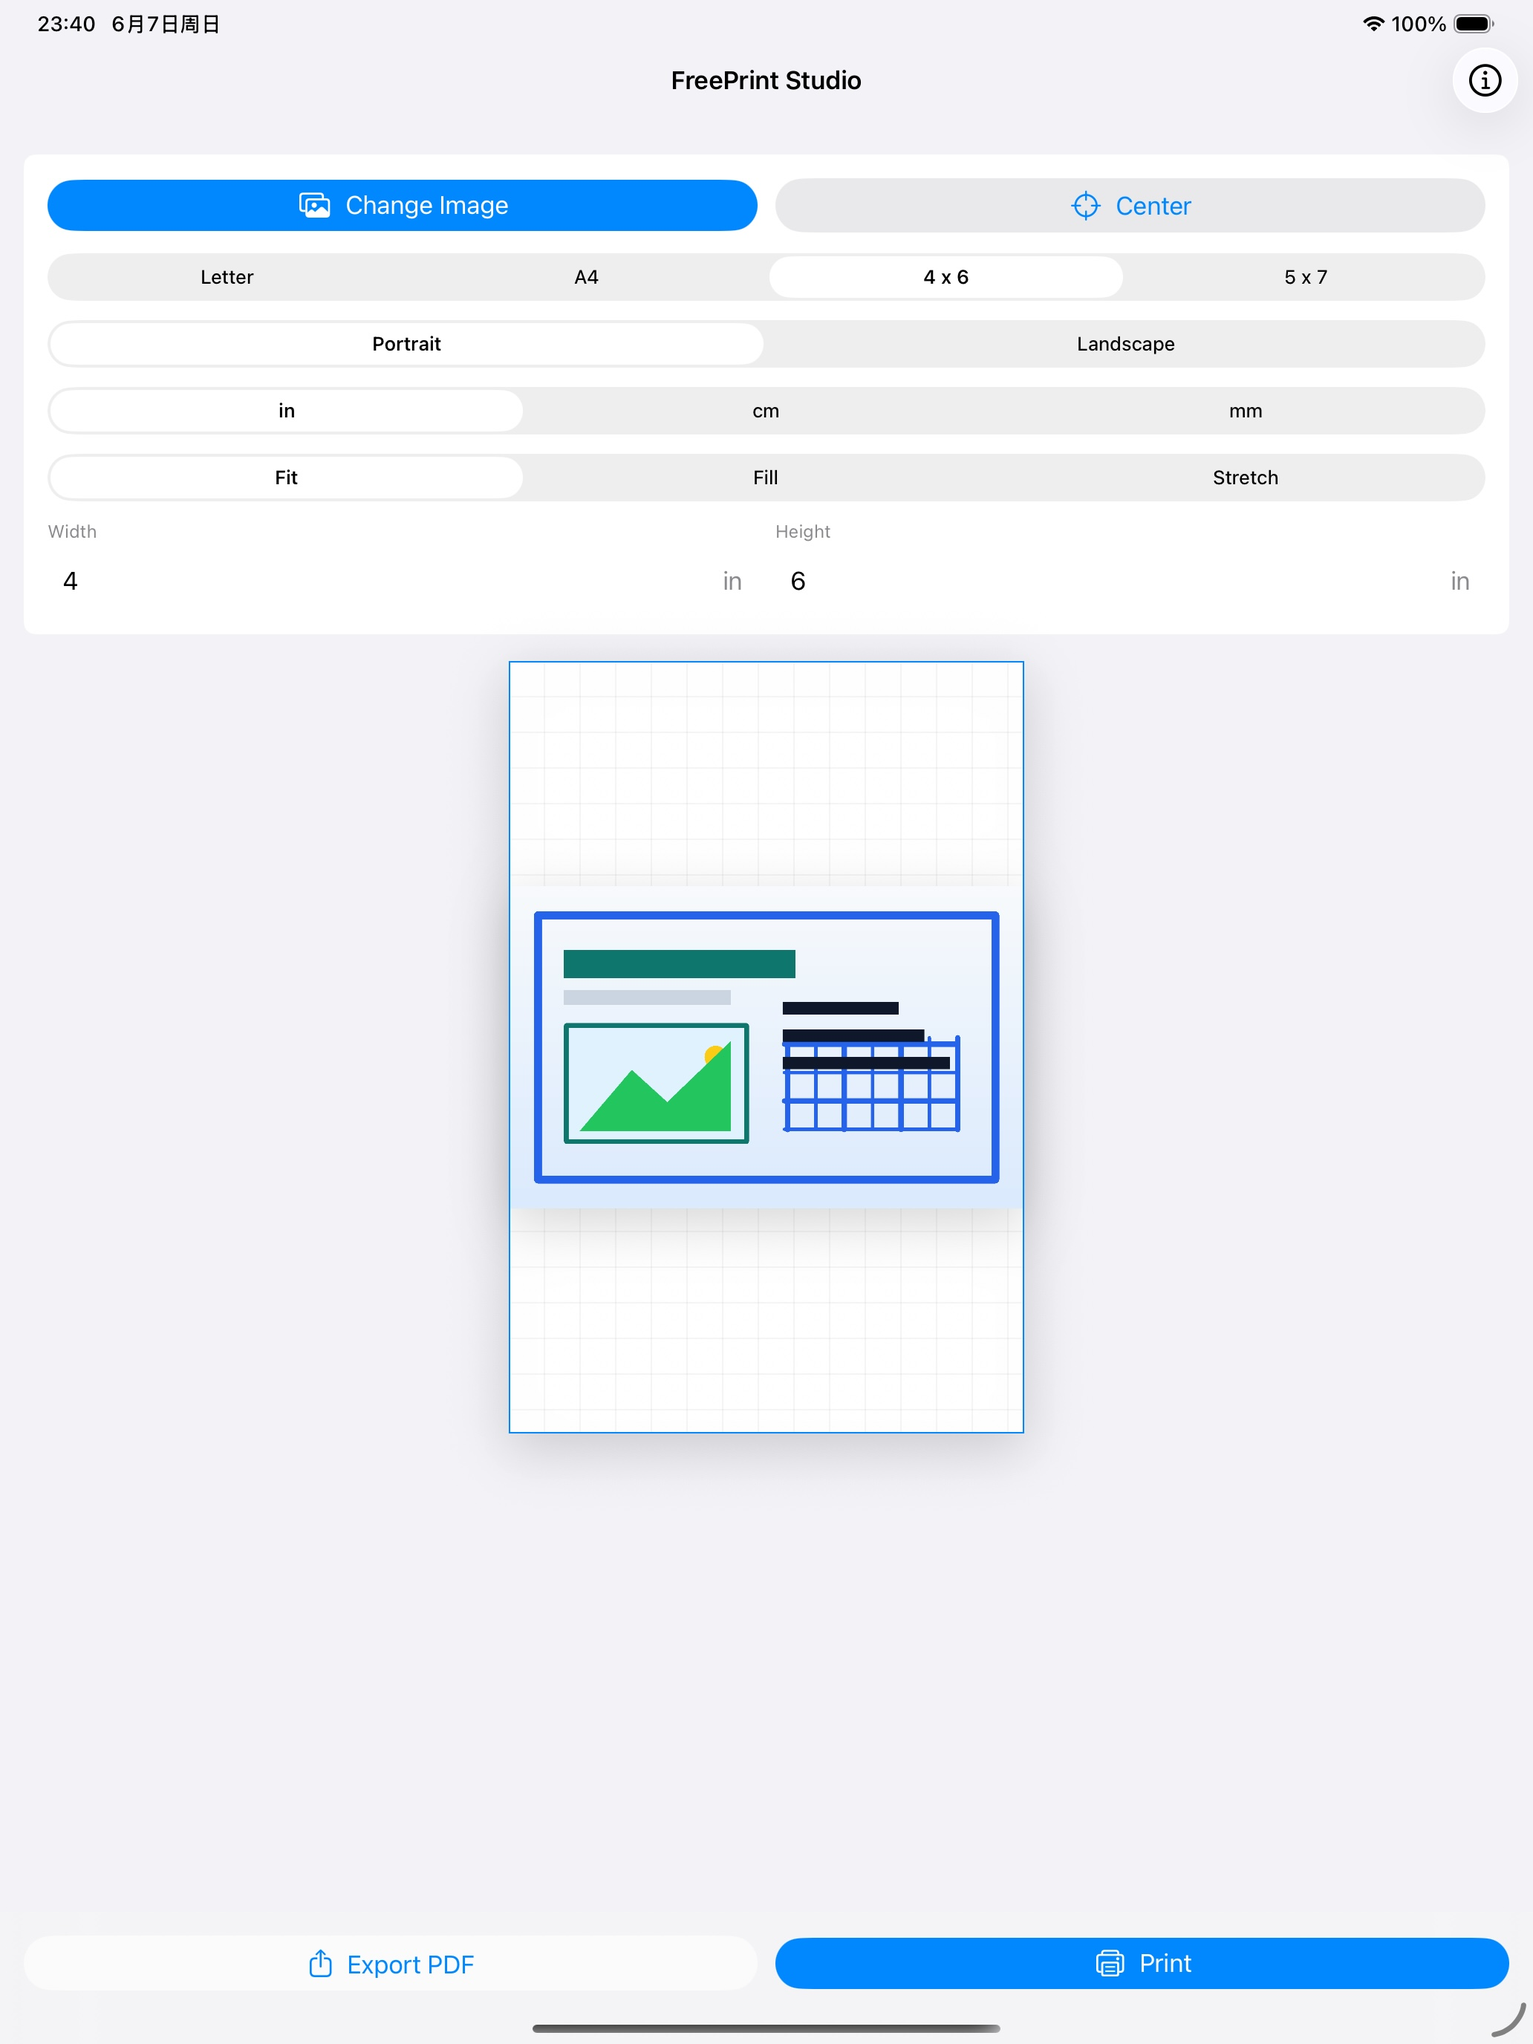
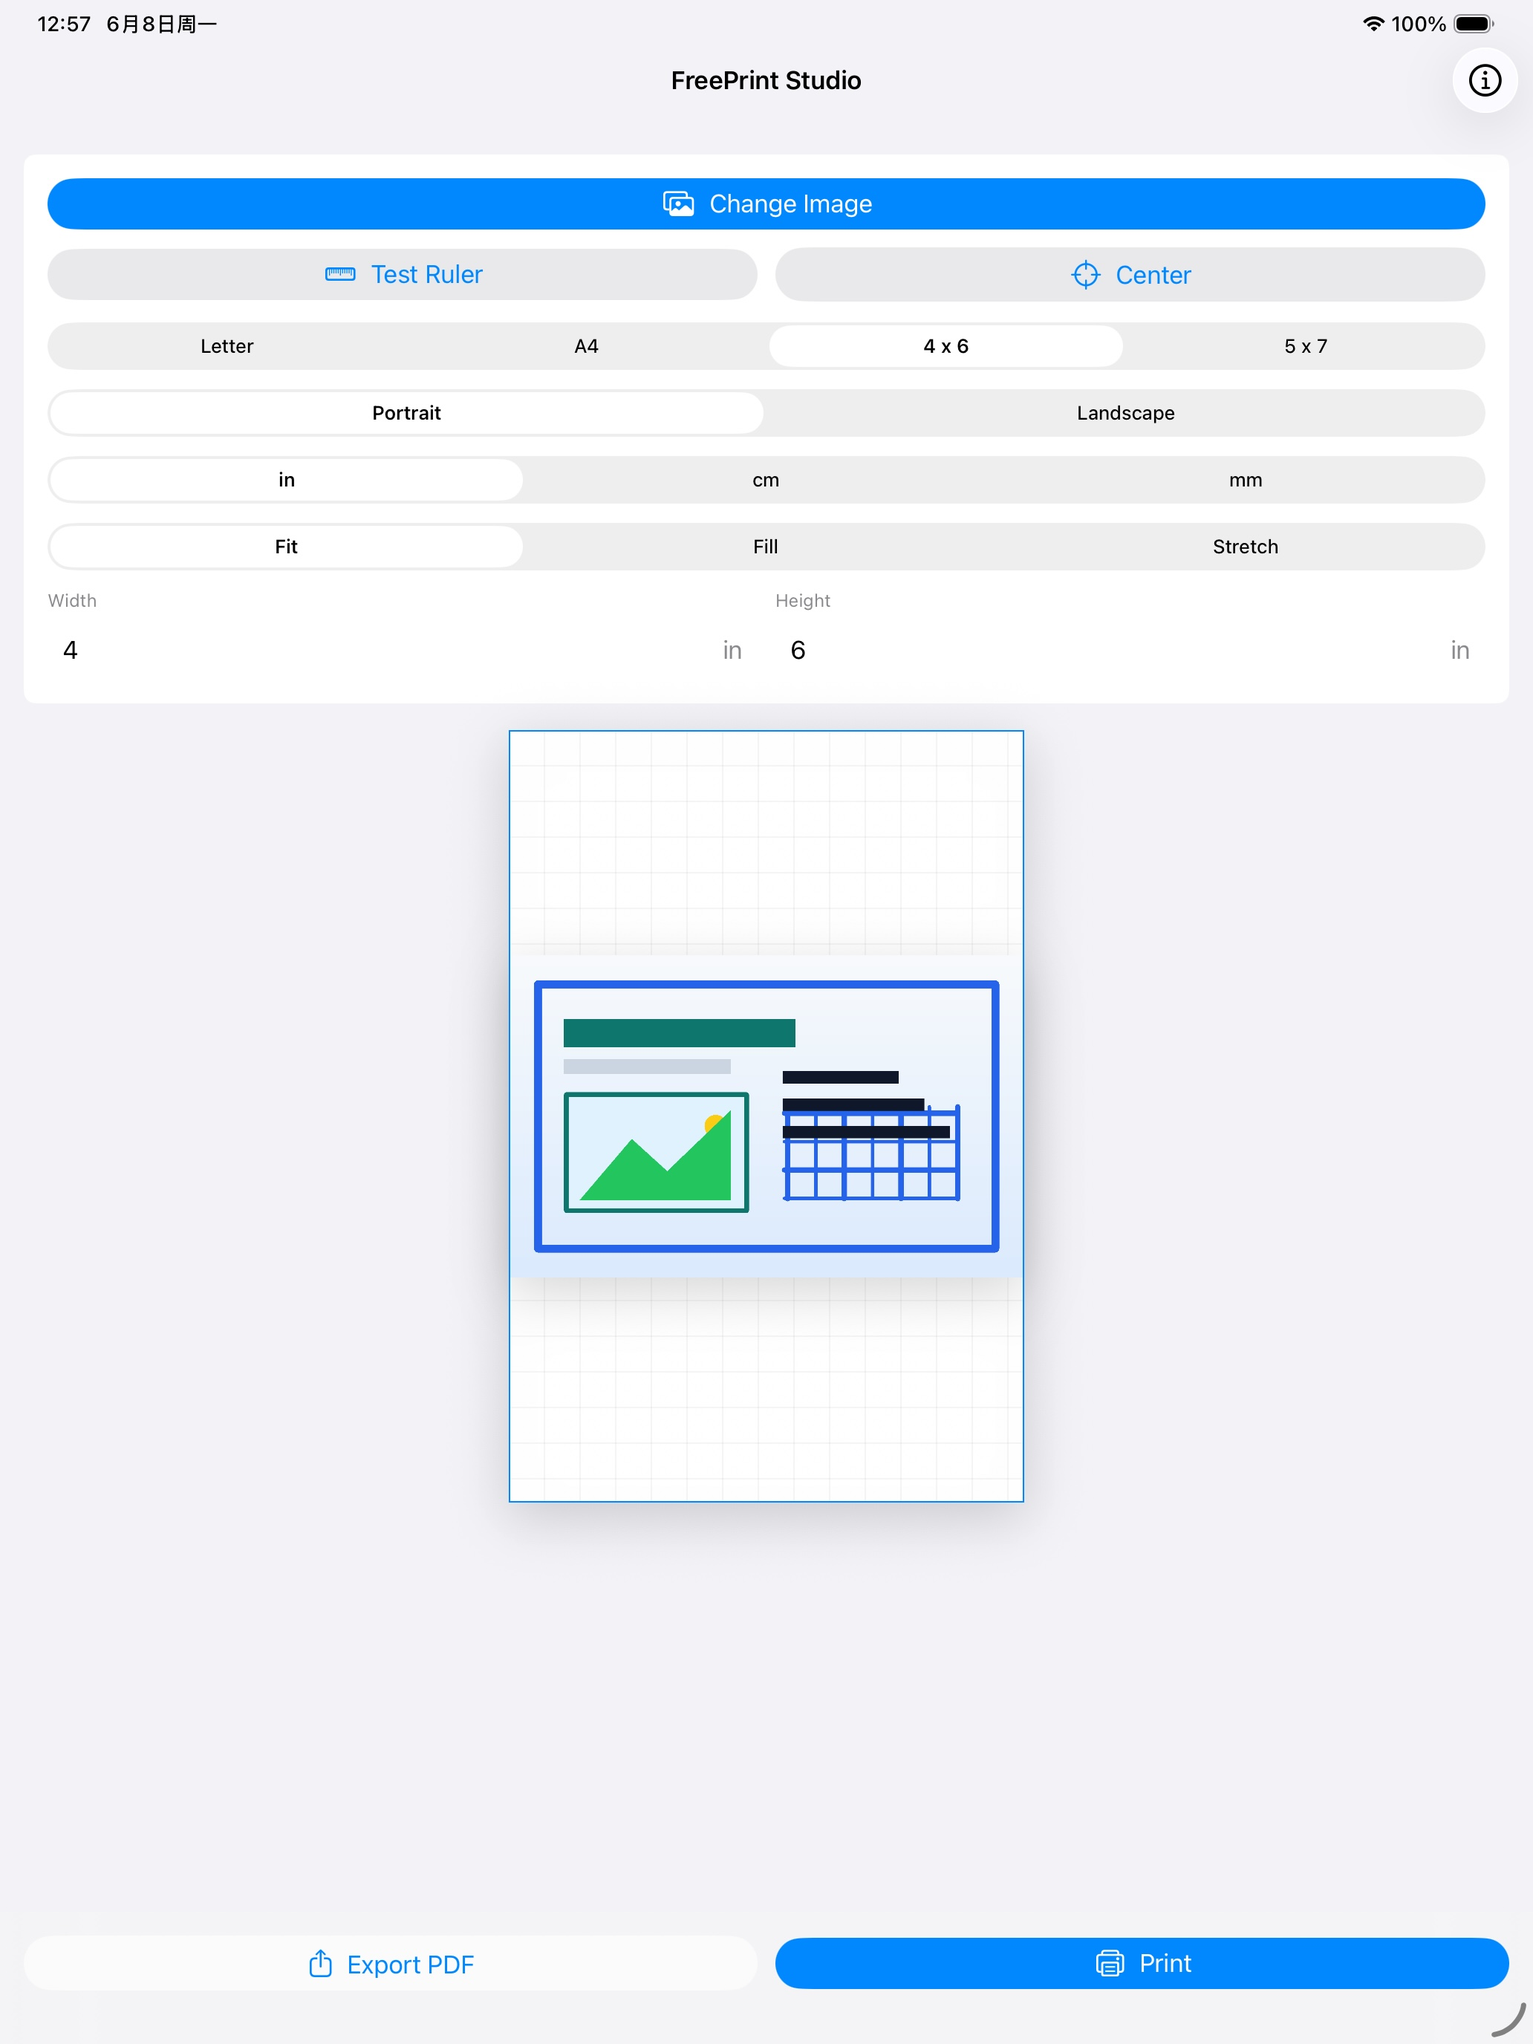
Add built-in test ruler

diff --git a/FreePrintStudio/ContentView.swift b/FreePrintStudio/ContentView.swift
@@ -127,12 +127,16 @@ struct ContentView: View {
             if usesAccessibilityLayout {
                 VStack(spacing: 12) {
                     chooseImageButton
+                    testRulerButton
                     centerButton(isDisabled: isTargetInvalid)
                 }
             } else {
-                HStack(spacing: 12) {
+                VStack(spacing: 12) {
                     chooseImageButton
-                    centerButton(isDisabled: isTargetInvalid)
+                    HStack(spacing: 12) {
+                        testRulerButton
+                        centerButton(isDisabled: isTargetInvalid)
+                    }
                 }
             }
 
@@ -202,6 +206,17 @@ struct ContentView: View {
         .buttonStyle(.borderedProminent)
         .accessibilityLabel(selectedImage == nil ? "Choose Image" : "Change Image")
         .accessibilityHint("Select or replace the image used for the print layout.")
+    }
+
+    private var testRulerButton: some View {
+        Button {
+            loadCalibrationGuide()
+        } label: {
+            commandLabel("Test Ruler", systemImage: "ruler")
+        }
+        .buttonStyle(.bordered)
+        .accessibilityLabel("Test Ruler")
+        .accessibilityHint("Load a built-in six inch calibration ruler for exact-size print checks.")
     }
 
     private func centerButton(isDisabled: Bool) -> some View {
@@ -302,6 +317,101 @@ struct ContentView: View {
             recenterImage()
         } catch {
             alertMessage = "Image loading failed: \(error.localizedDescription)"
+        }
+    }
+
+    private func loadCalibrationGuide() {
+        selectedPhoto = nil
+        selectedPaper = .letter
+        selectedOrientation = .portrait
+        if selectedUnit != .inch {
+            shouldPreserveMeasurementFieldsOnNextUnitChange = true
+        }
+        selectedUnit = .inch
+        selectedFitMode = .stretch
+        widthText = formatMeasurement(PrintSizing.calibrationGuideWidthInches)
+        heightText = formatMeasurement(PrintSizing.calibrationGuideHeightInches)
+        selectedImage = makeCalibrationGuideImage()
+        placement = PrintSizing.centeredPlacement(
+            targetSize: PrintSizing.calibrationGuideTargetSize,
+            on: PaperPreset.letter.size(orientation: .portrait)
+        )
+        exportedPDF = nil
+    }
+
+    private func makeCalibrationGuideImage() -> UIImage {
+        let pixelsPerInch = 300.0
+        let imageSize = CGSize(
+            width: PrintSizing.calibrationGuideWidthInches * pixelsPerInch,
+            height: PrintSizing.calibrationGuideHeightInches * pixelsPerInch
+        )
+        let renderer = UIGraphicsImageRenderer(size: imageSize)
+
+        return renderer.image { context in
+            let bounds = CGRect(origin: .zero, size: imageSize)
+            UIColor.white.setFill()
+            context.fill(bounds)
+
+            let lineColor = UIColor.black
+            let accentColor = UIColor(red: 0.0, green: 0.28, blue: 0.85, alpha: 1.0)
+            let baselineY = imageSize.height * 0.68
+            let tickCount = Int(PrintSizing.calibrationGuideWidthInches * 4)
+            let tickPath = UIBezierPath()
+            tickPath.lineWidth = 4
+
+            lineColor.setStroke()
+            tickPath.move(to: CGPoint(x: 0, y: baselineY))
+            tickPath.addLine(to: CGPoint(x: imageSize.width, y: baselineY))
+
+            for tick in 0...tickCount {
+                let ratio = CGFloat(tick) / CGFloat(tickCount)
+                let x = imageSize.width * ratio
+                let tickHeight: CGFloat
+                if tick % 4 == 0 {
+                    tickHeight = 132
+                } else if tick % 2 == 0 {
+                    tickHeight = 96
+                } else {
+                    tickHeight = 62
+                }
+                tickPath.move(to: CGPoint(x: x, y: baselineY))
+                tickPath.addLine(to: CGPoint(x: x, y: baselineY - tickHeight))
+            }
+            tickPath.stroke()
+
+            let titleAttributes: [NSAttributedString.Key: Any] = [
+                .font: UIFont.systemFont(ofSize: 42, weight: .semibold),
+                .foregroundColor: accentColor
+            ]
+            let subtitleAttributes: [NSAttributedString.Key: Any] = [
+                .font: UIFont.systemFont(ofSize: 24, weight: .regular),
+                .foregroundColor: UIColor.darkGray
+            ]
+            let numberAttributes: [NSAttributedString.Key: Any] = [
+                .font: UIFont.monospacedDigitSystemFont(ofSize: 34, weight: .medium),
+                .foregroundColor: lineColor
+            ]
+
+            "FreePrint Studio Test Ruler".draw(
+                at: CGPoint(x: 24, y: 22),
+                withAttributes: titleAttributes
+            )
+            "Print at Actual Size (100%) and compare the 0-6 inch marks.".draw(
+                at: CGPoint(x: 24, y: 76),
+                withAttributes: subtitleAttributes
+            )
+
+            for inch in 0...Int(PrintSizing.calibrationGuideWidthInches) {
+                let ratio = CGFloat(inch) / CGFloat(PrintSizing.calibrationGuideWidthInches)
+                let x = imageSize.width * ratio
+                let text = "\(inch)"
+                let size = text.size(withAttributes: numberAttributes)
+                let labelX = min(max(8, x - size.width / 2), imageSize.width - size.width - 8)
+                text.draw(
+                    at: CGPoint(x: labelX, y: baselineY + 18),
+                    withAttributes: numberAttributes
+                )
+            }
         }
     }
 

diff --git a/FreePrintStudioUITests/PhotoImportUITests.swift b/FreePrintStudioUITests/PhotoImportUITests.swift
@@ -25,6 +25,27 @@ final class PhotoImportUITests: XCTestCase {
         XCTAssertTrue(app.otherElements["Print preview"].exists || app.images.count > 0, "The print preview should remain visible after photo import.")
     }
 
+    func testTestRulerLoadsCalibrationGuide() throws {
+        let app = XCUIApplication()
+        app.launch()
+
+        let testRulerButton = app.buttons["Test Ruler"]
+        XCTAssertTrue(testRulerButton.waitForExistence(timeout: 15), "Test Ruler button should be visible.")
+        testRulerButton.tap()
+
+        XCTAssertTrue(app.buttons["Change Image"].waitForExistence(timeout: 5), "Test Ruler should load a generated image.")
+        XCTAssertTrue(app.buttons["Export PDF"].isEnabled, "Export PDF should be enabled after loading the Test Ruler.")
+        XCTAssertTrue(app.buttons["Print"].isEnabled, "Print should be enabled after loading the Test Ruler.")
+
+        let widthField = app.textFields["Width"]
+        let heightField = app.textFields["Height"]
+        XCTAssertTrue(widthField.waitForExistence(timeout: 5), "Width field should remain visible.")
+        XCTAssertTrue(heightField.waitForExistence(timeout: 5), "Height field should remain visible.")
+        XCTAssertTrue(String(describing: widthField.value ?? "").contains("6"), "Test Ruler width should be 6 inches.")
+        XCTAssertTrue(String(describing: heightField.value ?? "").contains("1"), "Test Ruler height should be 1 inch.")
+        XCTAssertTrue(app.otherElements["Print preview"].exists || app.images.count > 0, "The print preview should show the Test Ruler.")
+    }
+
     private func tapFirstPhoto(in app: XCUIApplication) {
         let pickerApps = photoPickerApplications(primaryApp: app)
         dismissPhotosAccessBannerIfPresent(in: pickerApps)

diff --git a/docs/support.html b/docs/support.html
@@ -55,6 +55,7 @@
     <h2>Common Workflow</h2>
     <ol>
       <li>Choose an image from Photos.</li>
+      <li>Or tap Test Ruler to load a built-in six inch calibration ruler.</li>
       <li>Select a paper size and orientation.</li>
       <li>Enter the target printed width and height.</li>
       <li>Choose Fit, Fill, or Stretch placement.</li>
@@ -66,7 +67,7 @@
       <li>Confirm the printer is using the same selected paper size as FreePrint Studio.</li>
       <li>In the printer options, choose Actual Size (100%) when available.</li>
       <li>Avoid Fit to Page, Scale to Fit, or other automatic scaling options when exact dimensions matter.</li>
-      <li>For a new printer or paper stock, print a small test ruler or measured square first.</li>
+      <li>For a new printer or paper stock, print the built-in Test Ruler first and compare the 0-6 inch marks.</li>
       <li>If printer scaling cannot be controlled from AirPrint, export a PDF and print it from a desktop app that exposes scale settings.</li>
     </ul>
 

diff --git a/Sources/FreePrintStudioCoreChecks/main.swift b/Sources/FreePrintStudioCoreChecks/main.swift
@@ -28,6 +28,12 @@ check(abs(fourInchesAsCentimeters - 10.16) < 0.0001, "4 inches should be 10.16 c
 let sixInchesAsMillimeters = PrintSizing.convertMeasurement(6, from: .inch, to: .millimeter)
 check(abs(sixInchesAsMillimeters - 152.4) < 0.0001, "6 inches should be 152.4 mm")
 
+check(PrintSizing.calibrationGuideWidthInches == 6, "Calibration guide should be 6 inches wide")
+check(PrintSizing.calibrationGuideHeightInches == 1, "Calibration guide should be 1 inch tall")
+let calibrationGuideTarget = PrintSizing.calibrationGuideTargetSize
+check(calibrationGuideTarget.widthPoints == 432, "Calibration guide width should be 432 points")
+check(calibrationGuideTarget.heightPoints == 72, "Calibration guide height should be 72 points")
+
 check(PrintSizing.parseMeasurement("4.5") == 4.5, "Decimal point input should parse")
 check(PrintSizing.parseMeasurement(" 6,25 ") == 6.25, "Decimal comma input should parse")
 check(PrintSizing.parseMeasurement("4,5.6") == nil, "Mixed decimal separators should be rejected")

diff --git a/Sources/FreePrintStudioCore/PrintSizing.swift b/Sources/FreePrintStudioCore/PrintSizing.swift
@@ -190,6 +190,12 @@ public enum TargetSizeValidation: Equatable, Sendable {
 
 public enum PrintSizing {
     public static let pointsPerInch: Double = 72
+    public static let calibrationGuideWidthInches: Double = 6
+    public static let calibrationGuideHeightInches: Double = 1
+    public static let calibrationGuideTargetSize = PrintSize(
+        widthPoints: calibrationGuideWidthInches * pointsPerInch,
+        heightPoints: calibrationGuideHeightInches * pointsPerInch
+    )
 
     public static func parseMeasurement(_ text: String) -> Double? {
         let trimmed = text.trimmingCharacters(in: .whitespacesAndNewlines)

diff --git a/AppStore/release-checklist.md b/AppStore/release-checklist.md
@@ -31,7 +31,7 @@
 - Run `Scripts/validate_manual_release_verification.sh` after recording real iPhone, AirPrint, and TestFlight evidence in untracked `Config/manual-release-verification.env`.
 - Confirm real Photos import on a simulator when changing the Photos picker; the generated-image simulator workflow above covers app launch, unit switching, screenshot rendering, and PDF export.
 - Confirm the same flow on a real iPhone.
-- Confirm AirPrint output on a real printer or a production-equivalent print workflow.
+- Confirm AirPrint output on a real printer or a production-equivalent print workflow with the built-in Test Ruler.
 - Enable GitHub Pages from the repository `docs` folder and verify the privacy and support URLs in `AppStore/metadata.md`.
 
 ## App Store Connect
@@ -52,7 +52,7 @@
 - App Store Connect state preflight: after the build processes, run `APP_STORE_BUILD_NUMBER=... Scripts/run_fastlane.sh ios app_store_connect_state` to verify the app record, version, and selected build before review submission.
 - Commercial configuration: apply `AppStore/commercial-configuration.md` in App Store Connect before submission.
 - App Review self-audit: review `AppStore/review-guideline-audit.md` and resolve every open blocker before submission.
-- Manual release evidence: run `Scripts/bootstrap_release_inputs.sh`, record real-device verification in `Config/manual-release-verification.env`, then run `APP_STORE_BUILD_NUMBER=... Scripts/validate_manual_release_verification.sh` with the same APP_STORE_BUILD_NUMBER selected for App Review.
+- Manual release evidence: run `Scripts/bootstrap_release_inputs.sh`, record real-device verification in `Config/manual-release-verification.env`, and use the built-in Test Ruler for `MANUAL_AIRPRINT_EXACT_SIZE`, then run `APP_STORE_BUILD_NUMBER=... Scripts/validate_manual_release_verification.sh` with the same APP_STORE_BUILD_NUMBER selected for App Review.
 - App Review submission preflight: after every listing field is final and the selected build has processed, run `APP_STORE_BUILD_NUMBER=... Scripts/preflight_app_review_submission.sh`.
 - Final review submission automation: after the uploaded build has processed and every listing field is final, run `APP_STORE_BUILD_NUMBER=... CONFIRM_SUBMIT_FOR_REVIEW=1 Scripts/run_fastlane.sh ios submit_review`.
 - Upload screenshots from `fastlane/screenshots/en-US` or through App Store Connect.

diff --git a/AppStore/metadata.md b/AppStore/metadata.md
@@ -14,7 +14,7 @@ FreePrint Studio helps you prepare exact-size image prints at a precise physical
 
 Choose a photo, pick a paper size, enter the printed width and height, then preview the result on a paper canvas before exporting or printing. You can switch between inches, centimeters, and millimeters, use portrait or landscape paper, and choose Fit, Fill, or Stretch placement depending on whether you want the full image preserved or the target area filled.
 
-FreePrint Studio is designed for simple local workflows such as craft patterns, product labels, reference photos, layout checks, and one-off image prints. The app creates a correctly sized PDF and opens the system print sheet for AirPrint.
+FreePrint Studio is designed for simple local workflows such as craft patterns, product labels, reference photos, layout checks, and one-off image prints. A built-in Test Ruler helps you verify printer scaling before exact-size work. The app creates a correctly sized PDF and opens the system print sheet for AirPrint.
 
 ## Keywords
 print,size,pdf,photo,image,airprint,label,craft,template,inch,centimeters,millimeters
@@ -27,7 +27,7 @@ Secondary: Productivity
 2026 dannagrace
 
 ## Version Release Notes
-Initial release of FreePrint Studio with exact-size image layout, PDF export, and AirPrint support.
+Initial release of FreePrint Studio with exact-size image layout, a built-in Test Ruler, PDF export, and AirPrint support.
 
 ## URLs
 Privacy Policy URL: https://dannagrace.github.io/FreePrintStudio/privacy-policy.html
@@ -41,10 +41,11 @@ FreePrint Studio does not require an account or network service.
 
 To test:
 1. Choose an image from Photos.
-2. Select a paper preset and orientation.
-3. Enter a target width and height.
-4. Switch Fit, Fill, and Stretch to verify preview behavior.
-5. Export PDF or open the system AirPrint sheet.
+2. Tap Test Ruler to load the built-in six inch calibration guide.
+3. Select a paper preset and orientation.
+4. Enter a target width and height.
+5. Switch Fit, Fill, and Stretch to verify preview behavior.
+6. Export PDF or open the system AirPrint sheet.
 
 The app processes selected images locally on device. It does not upload images, create accounts, use analytics, show ads, or track users.
 

diff --git a/AppStore/release-inputs-worksheet.md b/AppStore/release-inputs-worksheet.md
@@ -85,7 +85,7 @@ AirPrint or production-equivalent print evidence:
 
 - `MANUAL_AIRPRINT_TEST_DATE`
 - `MANUAL_AIRPRINT_PRINTER`
-- `MANUAL_AIRPRINT_EXACT_SIZE=pass`
+- `MANUAL_AIRPRINT_EXACT_SIZE=pass`: print the built-in Test Ruler at Actual Size (100%) and compare the 0-6 inch marks.
 
 TestFlight evidence:
 
